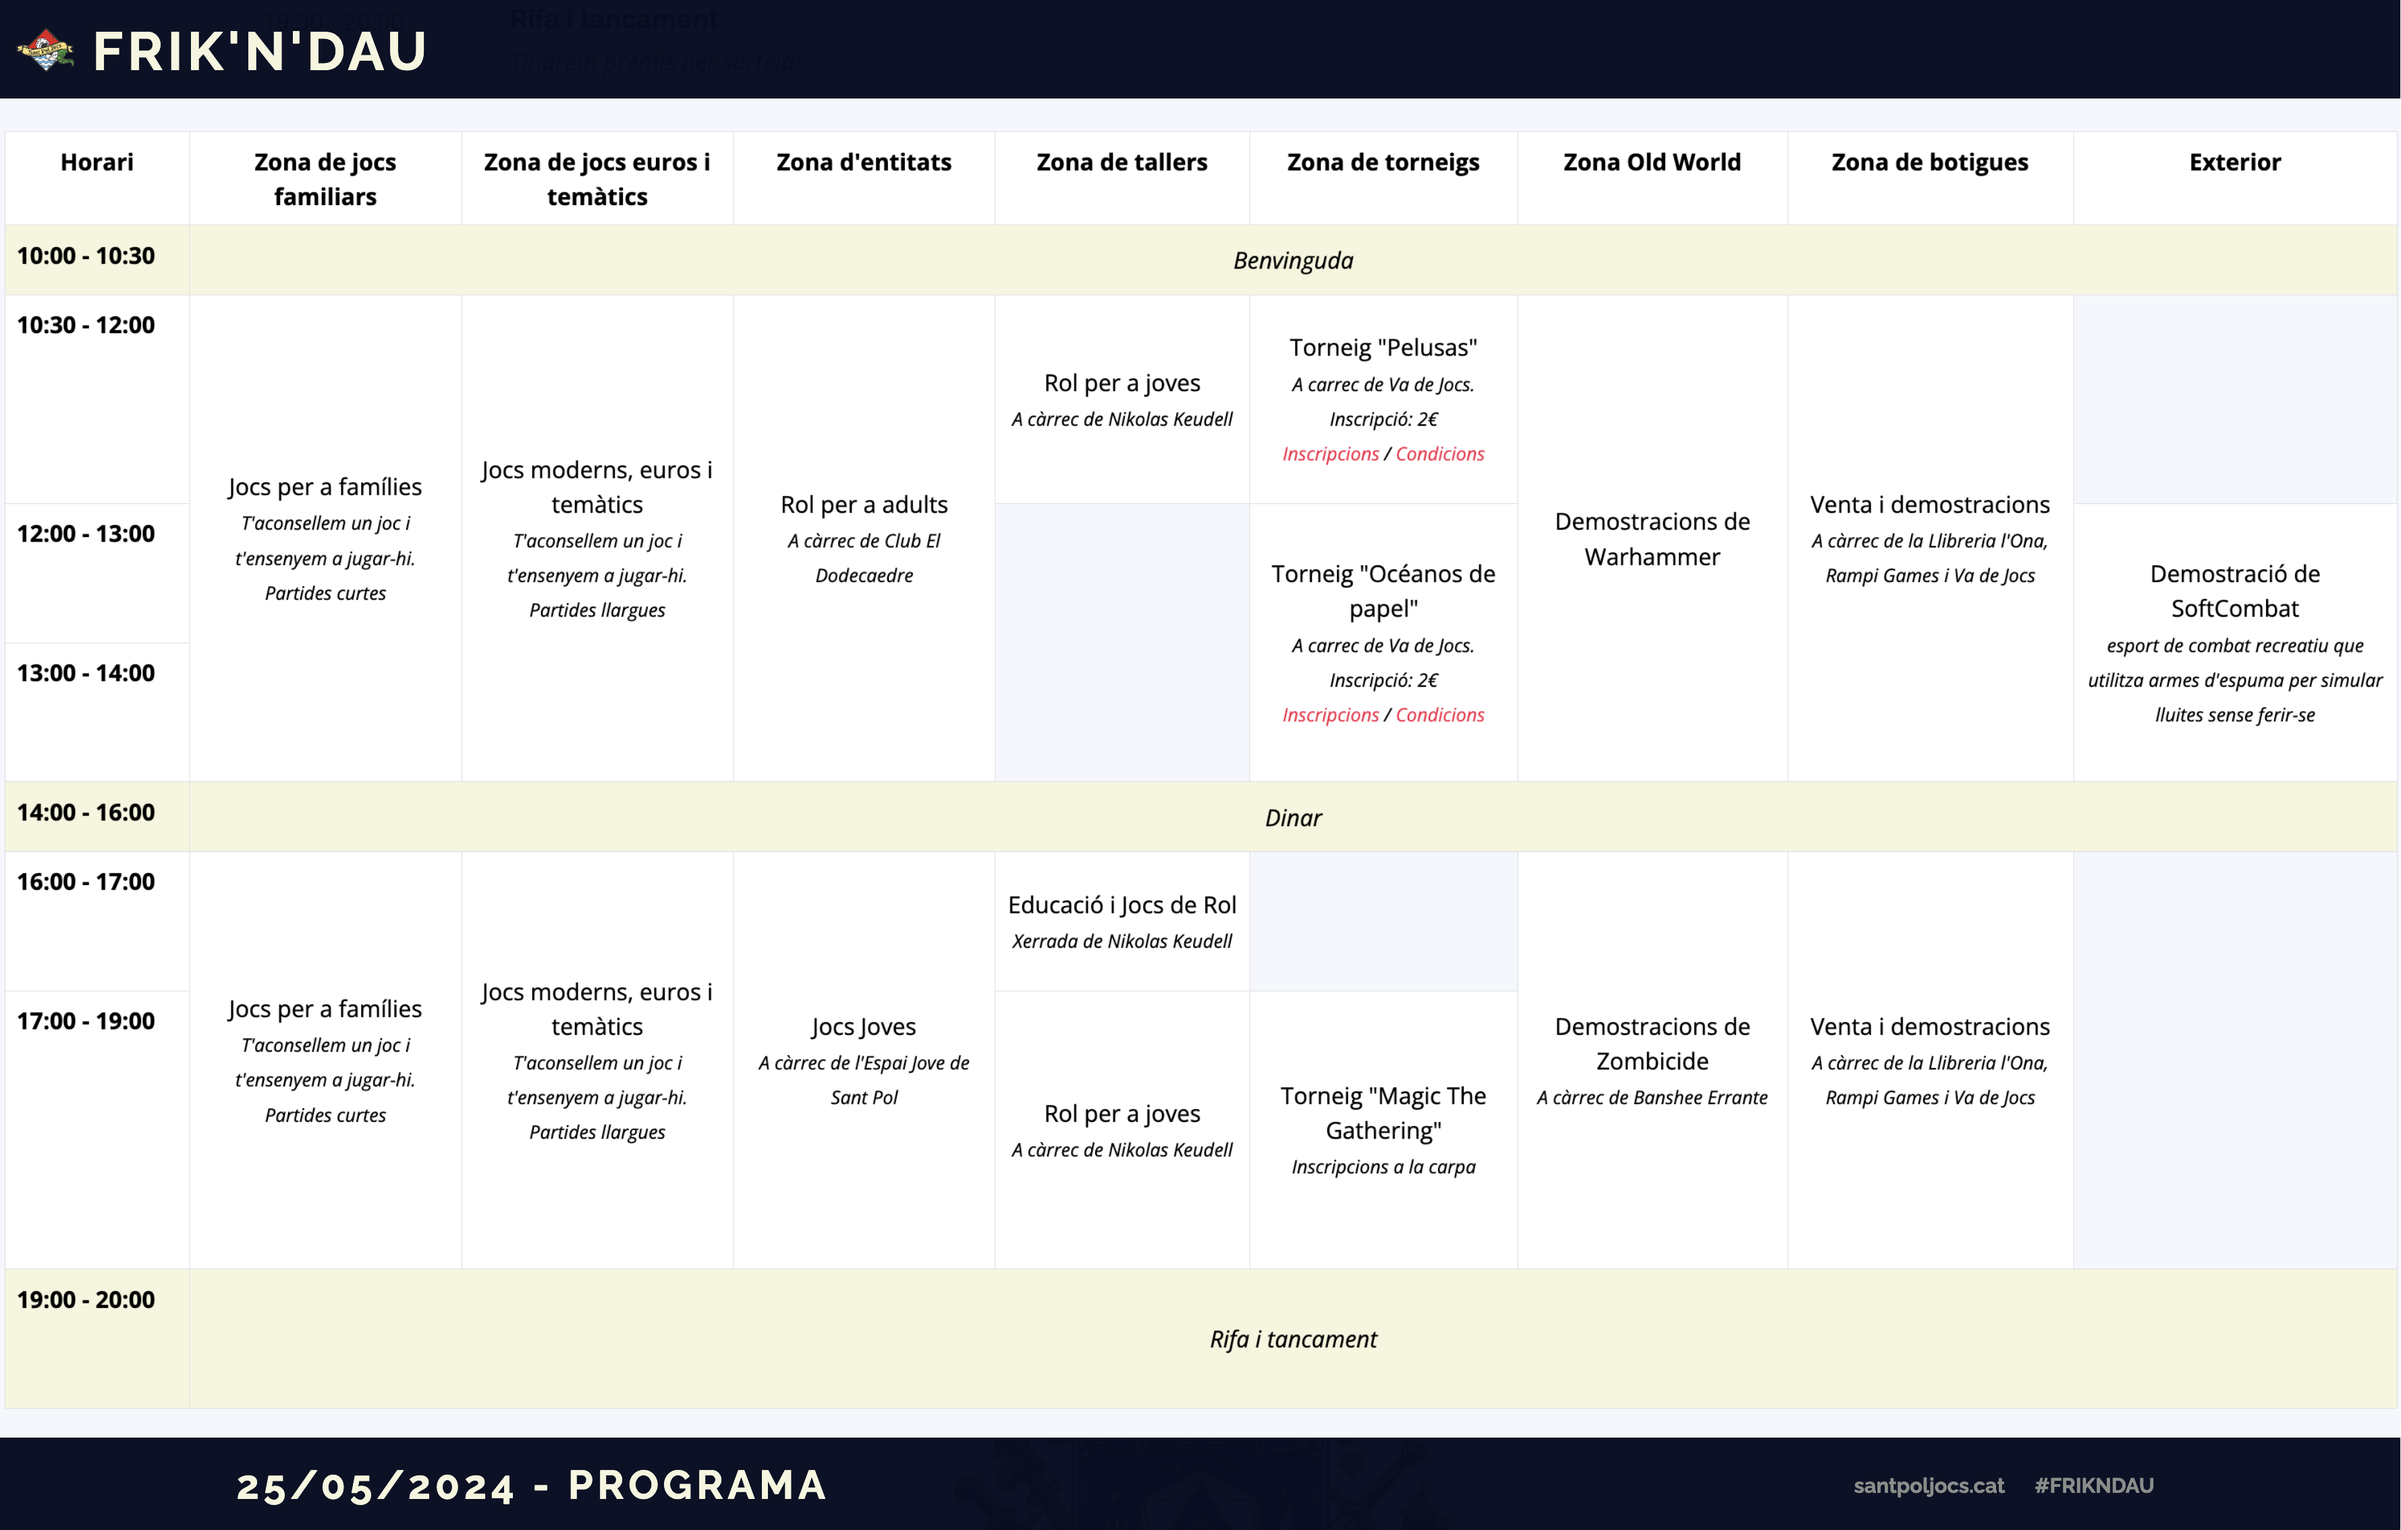
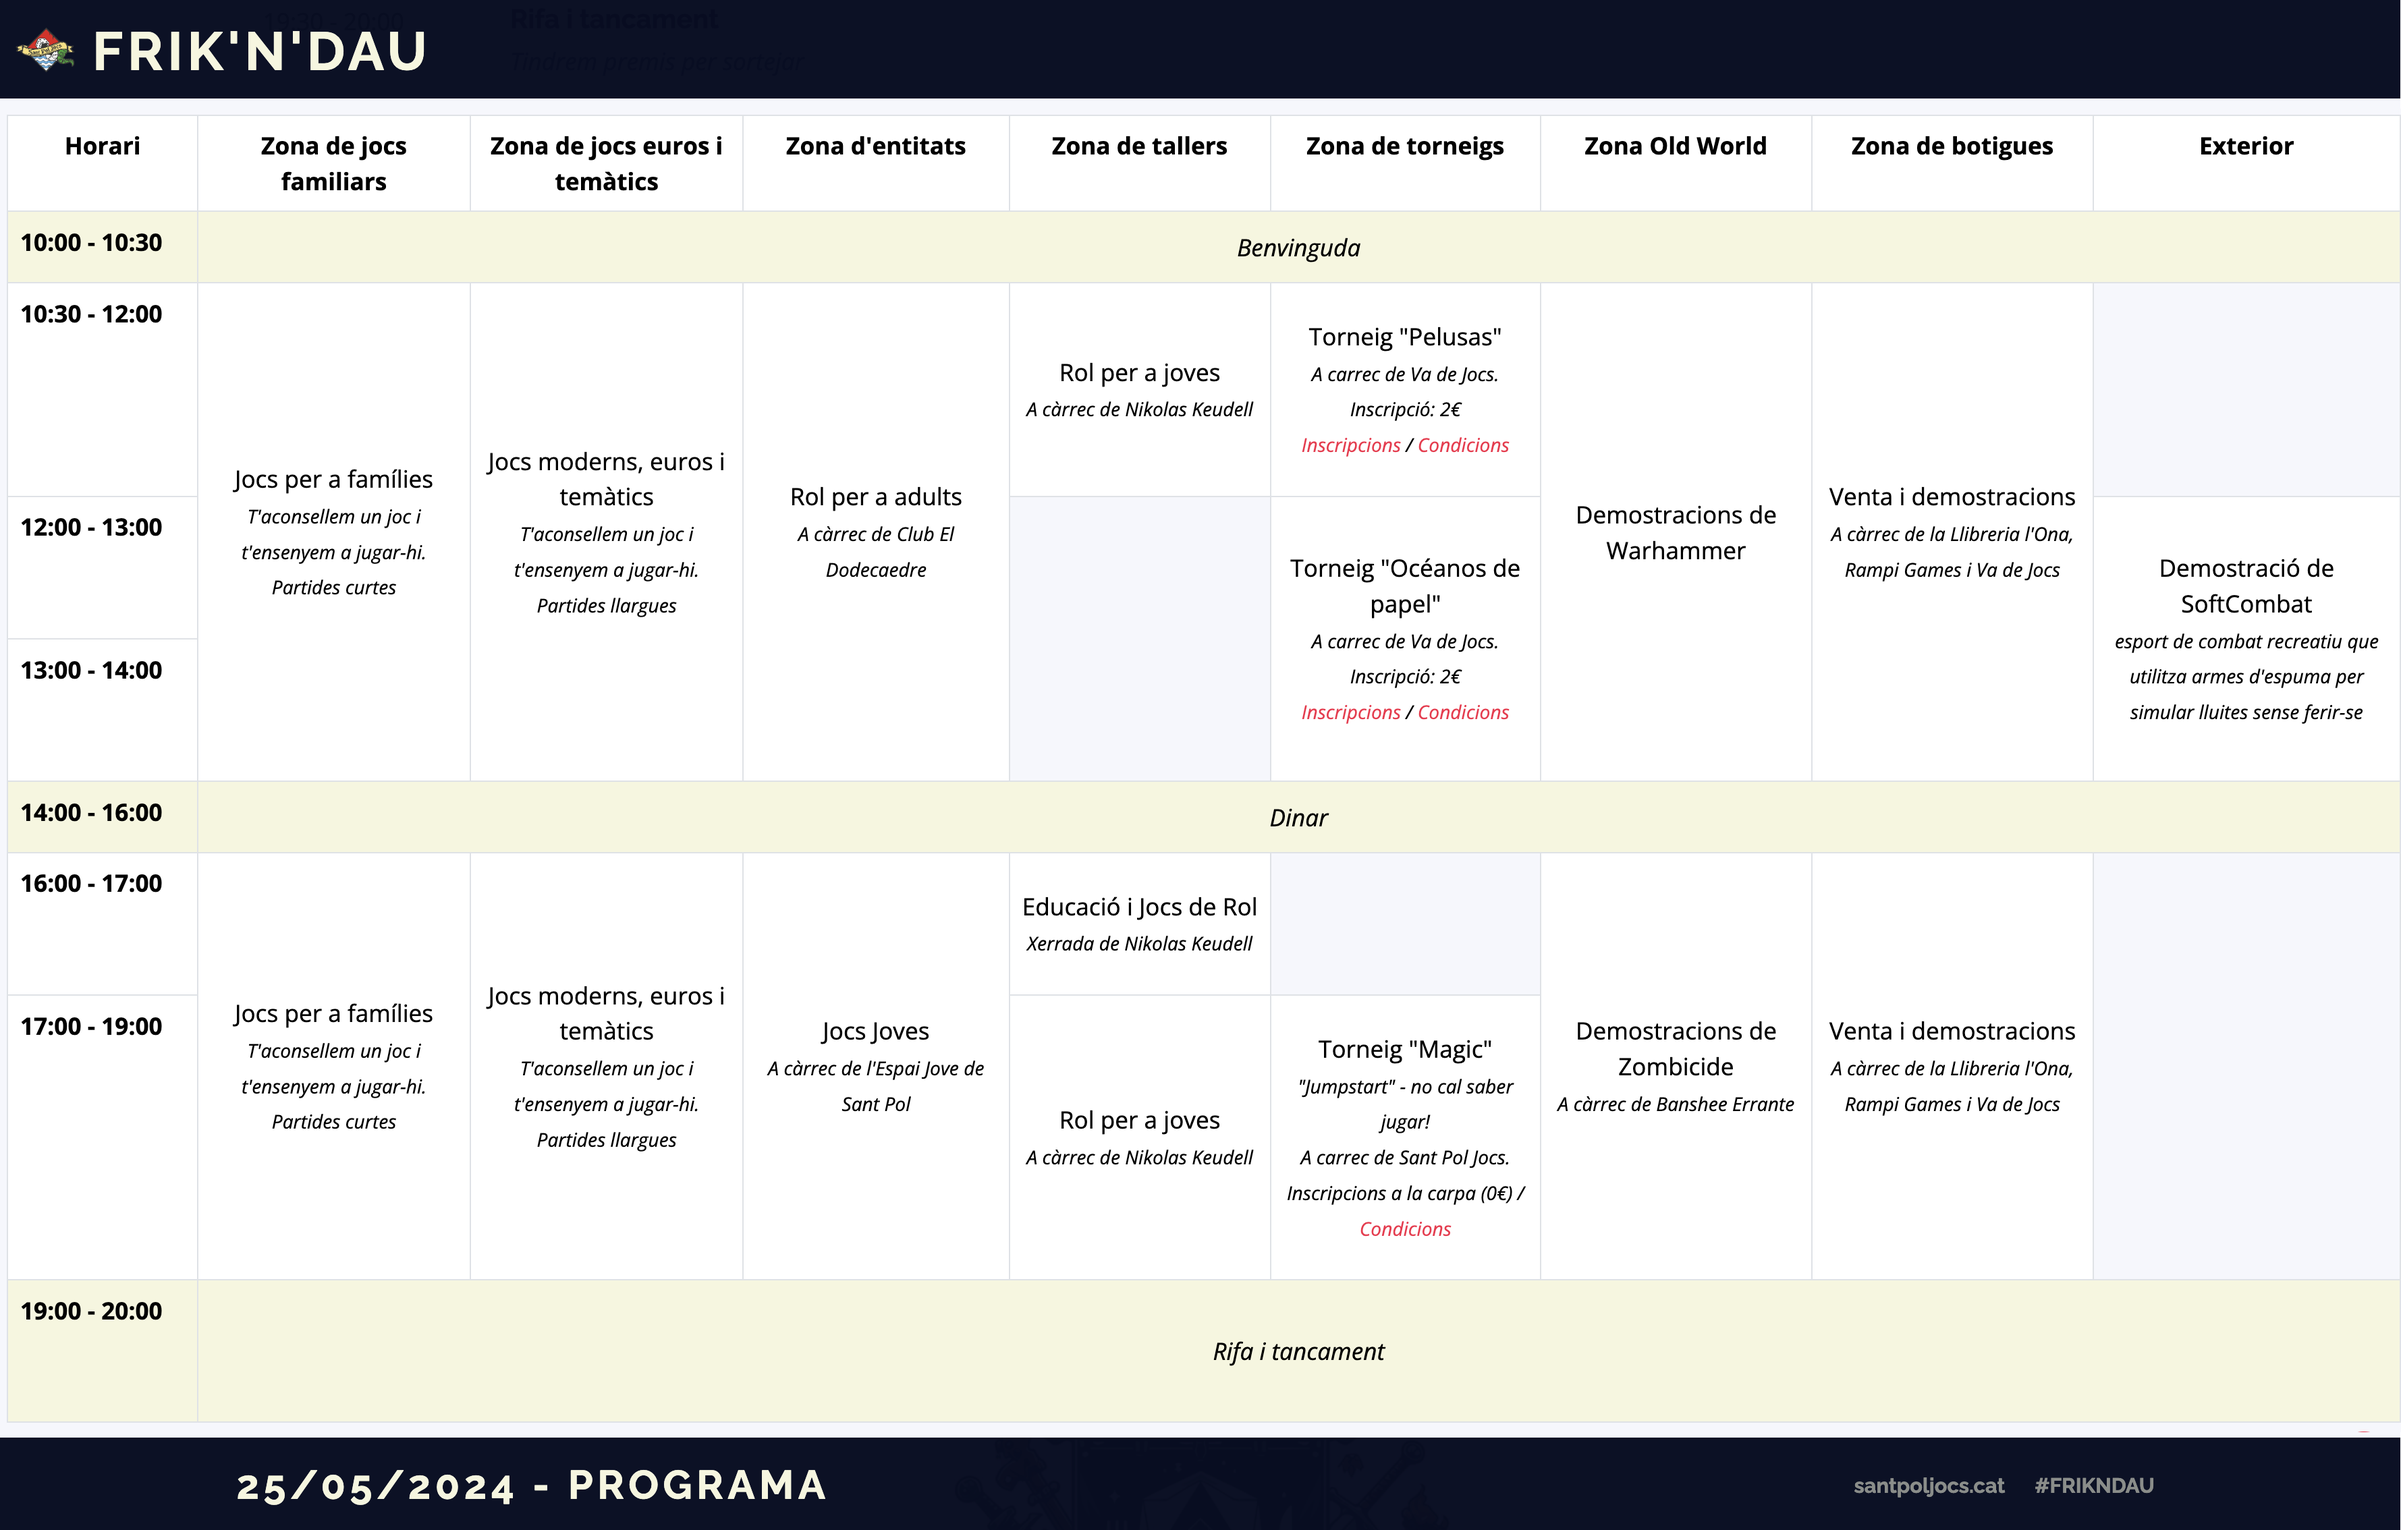
update pkanning

diff --git a/frikndau/index.html b/frikndau/index.html
@@ -234,7 +234,8 @@
                 Partides massives
               </h3>
               <p>
-                Partides de <em>Els Homes Llop de Castronegro</em>. Descobrireu quins vilatans son llops abans que us matin?
+                Partides de <em>Els Homes Llop de Castronegro</em>. Descobrireu quins vilatans son llops abans que us
+                matin?
               </p>
             </div>
           </div>
@@ -245,6 +246,15 @@
               <p>
                 Si us agrada competir, us podeu apuntar als torneigs de Pelusas, Océanos de Papel i Magic (<a
                   class="scrollto" href="#infoTorneigs">més info</a>).
+              </p>
+            </div>
+          </div>
+          <div class="col d-flex align-items-start">
+            <i class="bi bi-stars flex-shrink-0 me-3" width="1.75em" height="1.75em"></i>
+            <div>
+              <h3 class="fw-bold mb-0 fs-4">Demostracions de prototips</h3>
+              <p>
+                <strong>Ridiculam Jocs</strong> ens presentaran prototips de jocs encara no publicats.
               </p>
             </div>
           </div>
@@ -300,7 +310,7 @@
               <div class="col-md-2">10:00 - 14:00</div>
               <div class="col-md-10 pb-3">
                 <h4>Taules de joc, partides de rol (adults i joves), xerrades-taller, torneigs (Pelusas, Océanos de
-                  Papel), Warhammer, SoftCombat, demostracions</h4>
+                  Papel), Warhammer, SoftCombat, demostracions, prototips</h4>
                 <p>Consulteu el <a class="scrollto" href="programa.html">programa detallat</a> del matí</p>
               </div>
             </div>
@@ -319,7 +329,8 @@
             <div class="row schedule-item">
               <div class="col-md-2">16:00 - 19:30</div>
               <div class="col-md-10 pb-3">
-                <h4>Taules de joc, partida de rol (joves), xerrades-taller, Zombicide, torneig de Magic, Jocs Joves, demostracions
+                <h4>Taules de joc, partida de rol (joves), xerrades-taller, Zombicide, torneig de Magic, Jocs Joves,
+                  demostracions
                 </h4>
                 <p>Consulteu el <a class="scrollto" href="programa.html">programa detallat</a> de la tarda</p>
               </div>
@@ -363,12 +374,14 @@
                 <h5 class="card-title"><i class="bi bi-info-circle"></i> Inscripció als torneigs</h5>
                 <div class="card-text">
                   <ul>
-                    <li><strong>Pelusas</strong> (2&euro;) - <a href="https://bit.ly/torneigfrikndau">Inscripcions</a> / <a
-                        href="assets/documents/torneig-pelusas.pdf">Condicions</a></li>
-                    <li><strong>Océanos de Papel</strong> (2&euro;) - <a href="https://bit.ly/torneigfrikndau">Inscripcions</a> / <a
+                    <li><strong>Pelusas</strong> (2&euro;) - <a href="https://bit.ly/torneigfrikndau">Inscripcions</a> /
+                      <a href="assets/documents/torneig-pelusas.pdf">Condicions</a>
+                    </li>
+                    <li><strong>Océanos de Papel</strong> (2&euro;) - <a
+                        href="https://bit.ly/torneigfrikndau">Inscripcions</a> / <a
                         href="assets/documents/torneig-oceanos-de-papel.pdf">Condicions</a></li>
                     <li><strong>Magic</strong> (gratuït) - Inscripcions a la carpa / <a
-                      href="assets/documents/BASES TORNEIG MAGIC THE GATHERING.pdf">Condicions</a></li>
+                        href="assets/documents/BASES TORNEIG MAGIC THE GATHERING.pdf">Condicions</a></li>
                   </ul>
                   <small>Consulteu el <a href="programa.html">programa detallat</a> per informació sobre
                     els horaris</small>
@@ -525,12 +538,14 @@
 
         <div class="row g-0 supporters-wrap clearfix" data-aos="zoom-in" data-aos-delay="100">
           <div class="col-lg-3 col-md-4 col-xs-6">
-            
+
             <div class="supporter-logo">
               <a href="https://www.santpol.cat/" title="Ajuntament de Sant Pol de Mar">
                 <img src="assets/img/supporters/logo-ajuntament.png" class="img-fluid" alt="logo ajuntament Sant Pol" />
               </a>
-              <div style="float:left; position:absolute;top:0px;left:0px; overflow: hidden;margin:1em; text-align: center; font-size: 0.9em;opacity: 0.4;">(Organitzador)</div>
+              <div
+                style="float:left; position:absolute;top:0px;left:0px; overflow: hidden;margin:1em; text-align: center; font-size: 0.9em;opacity: 0.4;">
+                (Organitzador)</div>
             </div>
           </div>
 
@@ -584,7 +599,7 @@
 
           <div class="col-lg-3 col-md-4 col-xs-6">
             <div class="supporter-logo">
-              <a href="#" title="Banshee Errante - Mataró">
+              <a href="https://bansheerrante.blogspot.com/" title="Banshee Errante - Mataró">
                 <img src="assets/img/supporters/banshee-errante.jpeg" class="img-fluid" alt="Logo Banshee Errante" />
               </a>
             </div>
@@ -613,8 +628,7 @@
                   <p>
                     L’entrada és gratuïta. Sols s’han de pagar les
                     consumicions del bar, el dinar i la participació als
-                    torneigs (<a
-                    class="scrollto" href="#infoTorneigs">més info</a>).
+                    torneigs (<a class="scrollto" href="#infoTorneigs">més info</a>).
                   </p>
                 </div>
               </li>
